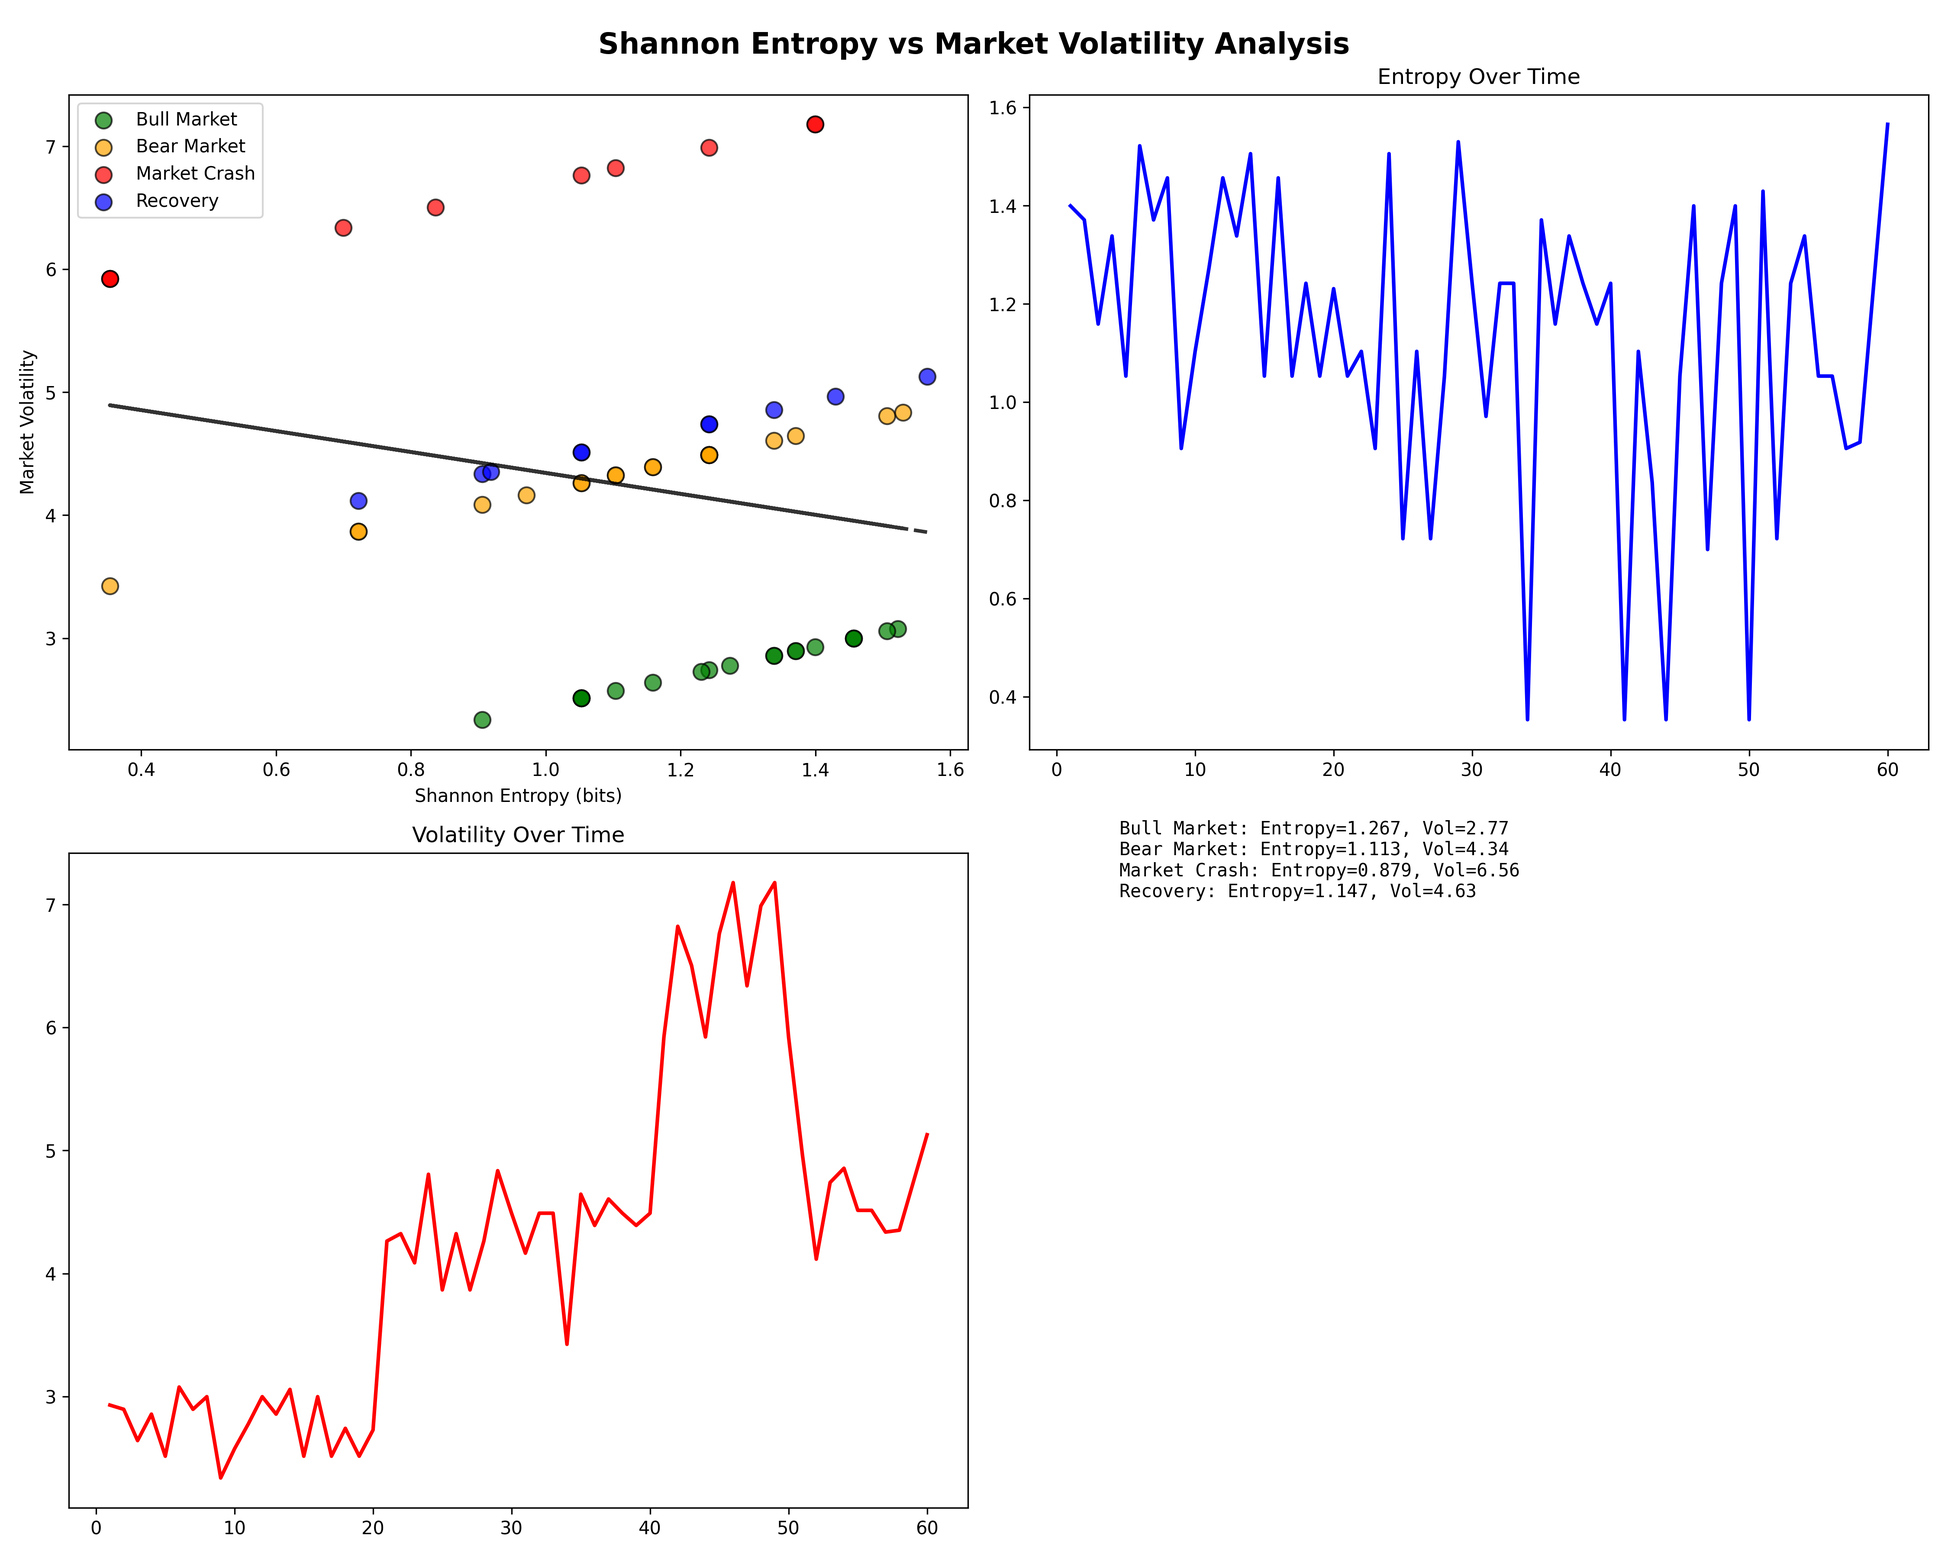
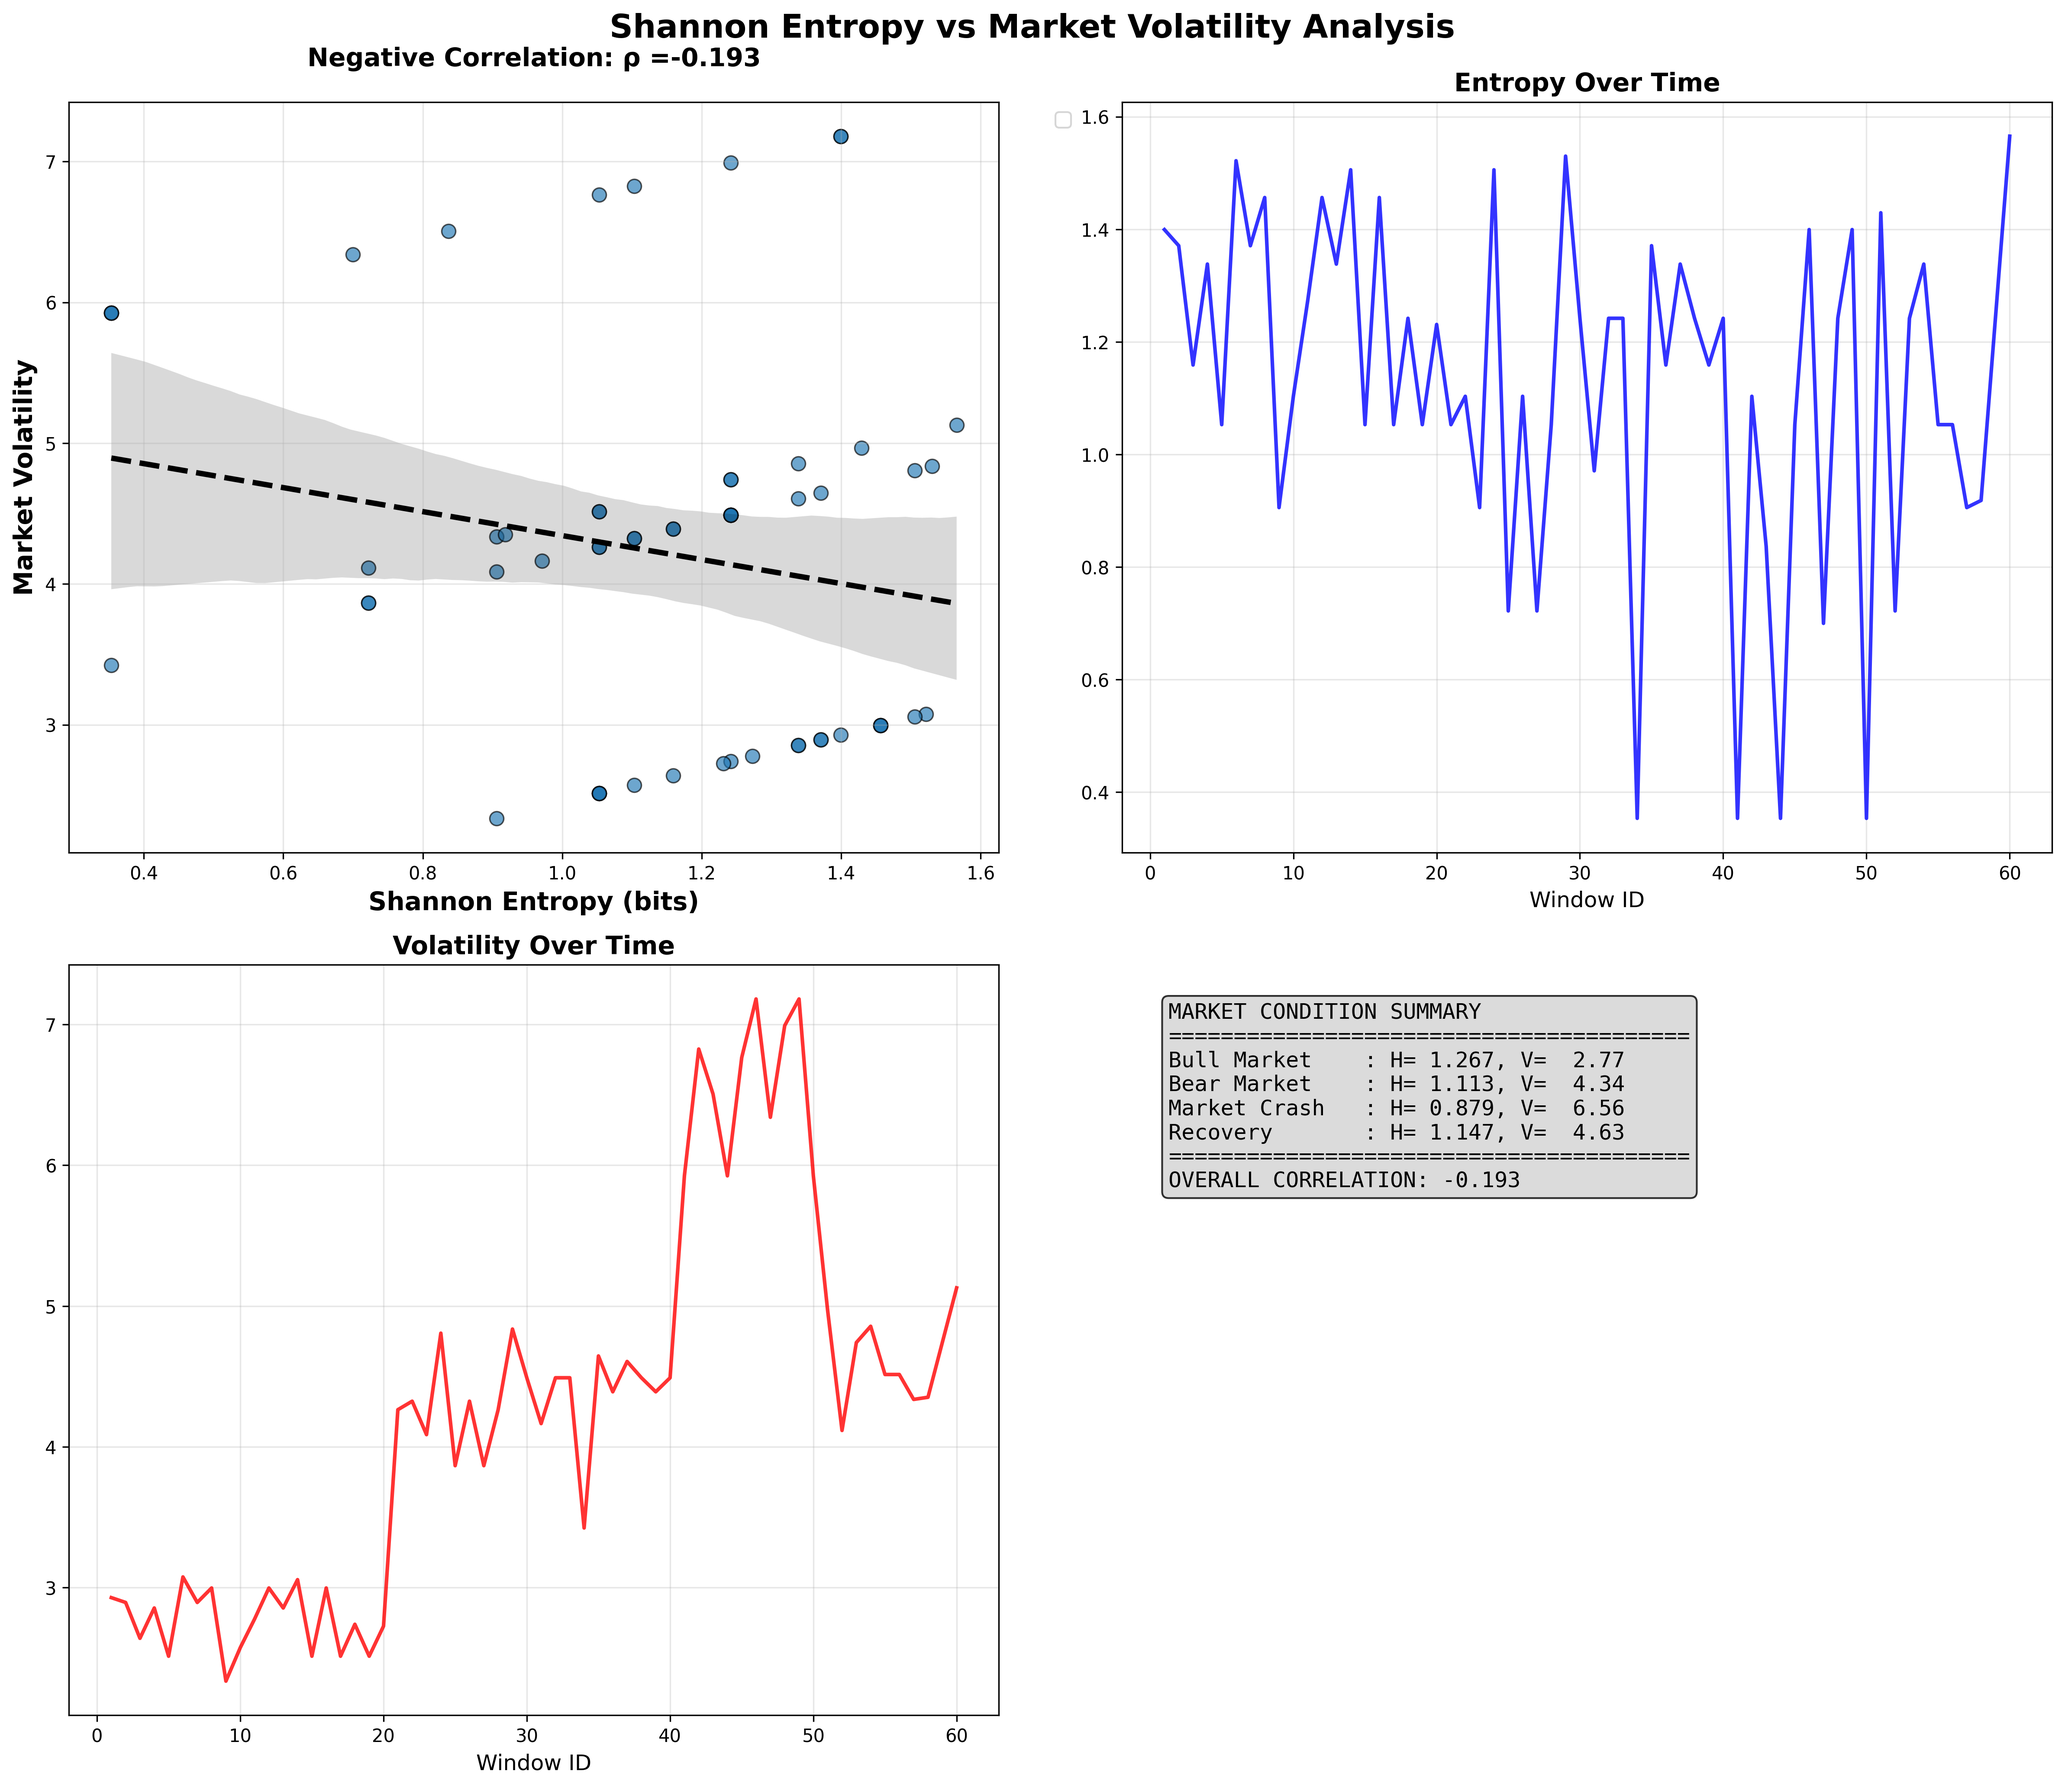
chore: Relocated test artifacts to the test folder. updated the readability for the entropy_analysis.png

diff --git a/visualize_entropy.py b/visualize_entropy.py
@@ -3,56 +3,60 @@ import matplotlib.pyplot as plt
 import seaborn as sns
 import numpy as np
 
+
 def visualize_entropy_volatility(csv_file="tests/visual_inspection_data.csv"):
     try:
         df = pd.read_csv(csv_file)
         print("Data loaded successfully:")
         print(df.head())
         
-        fig, ((ax1, ax2), (ax3, ax4)) = plt.subplots(2, 2, figsize=(15, 12))
-        fig.suptitle('Shannon Entropy vs Market Volatility Analysis', fontsize=16, fontweight='bold')
-        
-        colors = {'Bull Market': 'green', 'Bear Market': 'orange', 'Market Crash': 'red', 'Recovery': 'blue'}
-        
-        # Fix column names to match C++ output
-        for condition in df['Market_Condition'].unique():
-            subset = df[df['Market_Condition'] == condition]
-            ax1.scatter(subset['Entropy'], subset['Volatility'], 
-                       s=80, alpha=0.7, c=colors.get(condition, 'gray'), 
-                       label=condition, edgecolors='black')
-        
-        ax1.set_xlabel('Shannon Entropy (bits)')
-        ax1.set_ylabel('Market Volatility')
-        ax1.legend()
-        
-        z = np.polyfit(df['Entropy'], df['Volatility'], 1)
-        p = np.poly1d(z)
-        ax1.plot(df['Entropy'], p(df['Entropy']), "k--", alpha=0.8, linewidth=2)
-        
-        # Time series (rest unchanged)
-        ax2.plot(df['Window_ID'], df['Entropy'], 'b-', linewidth=2)
-        ax2.set_title('Entropy Over Time')
-        
-        ax3.plot(df['Window_ID'], df['Volatility'], 'r-', linewidth=2)
-        ax3.set_title('Volatility Over Time')
-        
-        # Summary
+        fig, ((ax1, ax2), (ax3, ax4)) = plt.subplots(2, 2, figsize=(16, 14))
+        fig.suptitle('Shannon Entropy vs Market Volatility Analysis', fontsize=18, fontweight='bold')
+
+        sns.regplot(data=df, x='Entropy', y='Volatility', ax=ax1,
+                    scatter_kws={'s':60, 'alpha':0.65, 'edgecolors':'black',
+                                 'linewidths':0.8},
+                    line_kws={'color':'black', 'linestyle':'--', 'lw':3})
+        ax1.set_xlabel('Shannon Entropy (bits)', fontsize=14, fontweight='bold')
+        ax1.set_ylabel('Market Volatility', fontsize=14, fontweight='bold')
+        ax1.legend(bbox_to_anchor=(1.05, 1), loc='upper left', fontsize=11)
+        ax1.grid(True, alpha=0.3)
+        ax1.set_title('Negative Correlation: ρ ={:.3f}'.format(df['Entropy'].corr(df['Volatility'])), fontsize=14, fontweight='bold', pad=20)
+
+        ax2.plot(df['Window_ID'], df['Entropy'], 'b-', linewidth=2, alpha=0.8)
+        ax2.set_title('Entropy Over Time', fontsize=14, fontweight='bold')
+        ax2.set_xlabel('Window ID', fontsize=12)
+        ax2.grid(True, alpha=0.3)
+
+        ax3.plot(df['Window_ID'], df['Volatility'], 'r-', linewidth=2, alpha=0.8)
+        ax3.set_title('Volatility Over Time', fontsize=14, fontweight='bold')
+        ax3.set_xlabel('Window ID', fontsize=12)
+        ax3.grid(True, alpha=0.3)
+
         ax4.axis('off')
-        summary_text = ""
+        summary_text = "MARKET CONDITION SUMMARY\n"
+        summary_text += "="*40 + "\n"
         for condition in df['Market_Condition'].unique():
             subset = df[df['Market_Condition'] == condition]
-            summary_text += f"{condition}: Entropy={subset['Entropy'].mean():.3f}, Vol={subset['Volatility'].mean():.2f}\n"
-        ax4.text(0.1, 0.9, summary_text, fontsize=10, fontfamily='monospace')
+            summary_text += f"{condition:<15}: H={subset['Entropy'].mean():6.3f}, V={subset['Volatility'].mean():6.2f}\n"
         
+        summary_text += "="*40 + "\n"
+        summary_text += f"OVERALL CORRELATION: {df['Entropy'].corr(df['Volatility']):.3f}"
+
+        ax4.text(0.05, 0.95, summary_text, fontsize=12, fontfamily='monospace',
+            verticalalignment='top', transform=ax4.transAxes, bbox=dict(boxstyle="round,pad=0.3", facecolor="lightgray", alpha=0.8))
+            
         plt.tight_layout()
-        plt.savefig('entropy_analysis.png', dpi=300)
+        plt.savefig('entropy_analysis.png', dpi=300, bbox_inches='tight', facecolor='white')
         plt.show()
-        
+
         corr = df['Entropy'].corr(df['Volatility'])
-        print(f"Correlation: {corr:.3f} ({'negative' if corr < 0 else 'positive'})")
+        print(f"\n✓ Correlation: {corr:.3f} ({'negative' if corr < 0 else 'positive'})")
+        print("✓ Graph saved as 'entropy_analysis.png'")
         
     except Exception as e:
         print(f"Error: {e}")
+
 
 if __name__ == "__main__":
     visualize_entropy_volatility()
